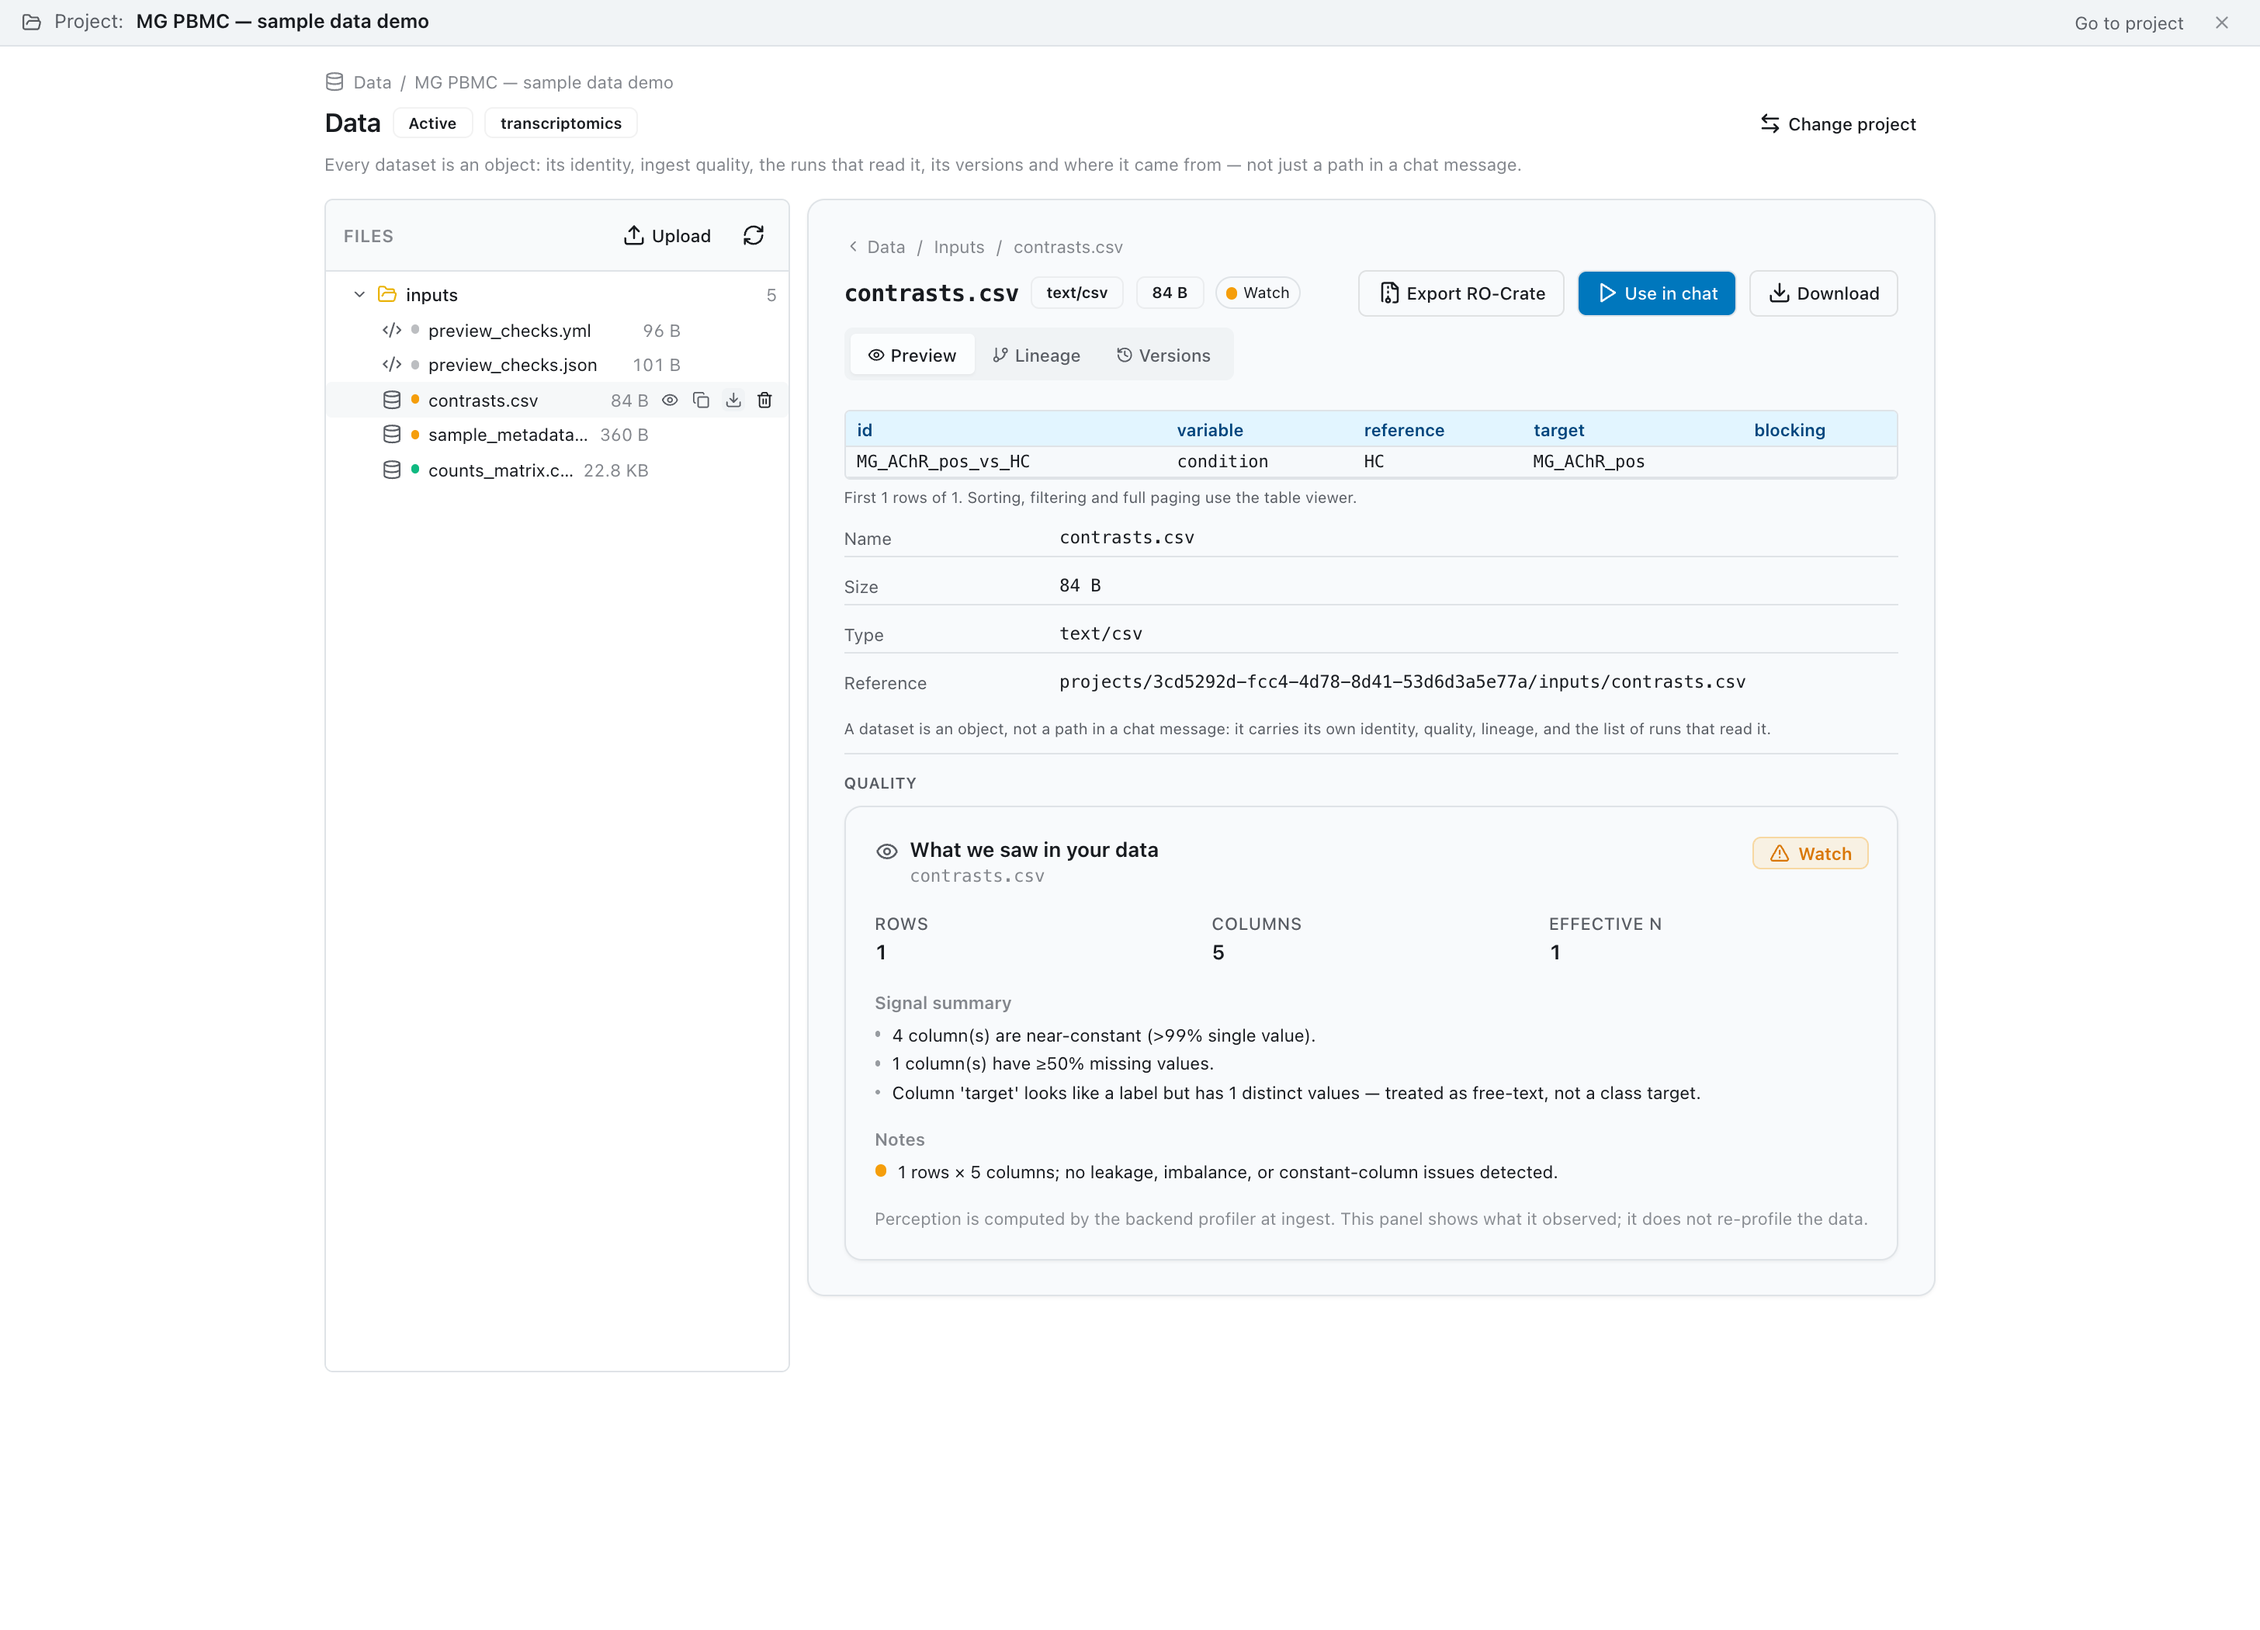
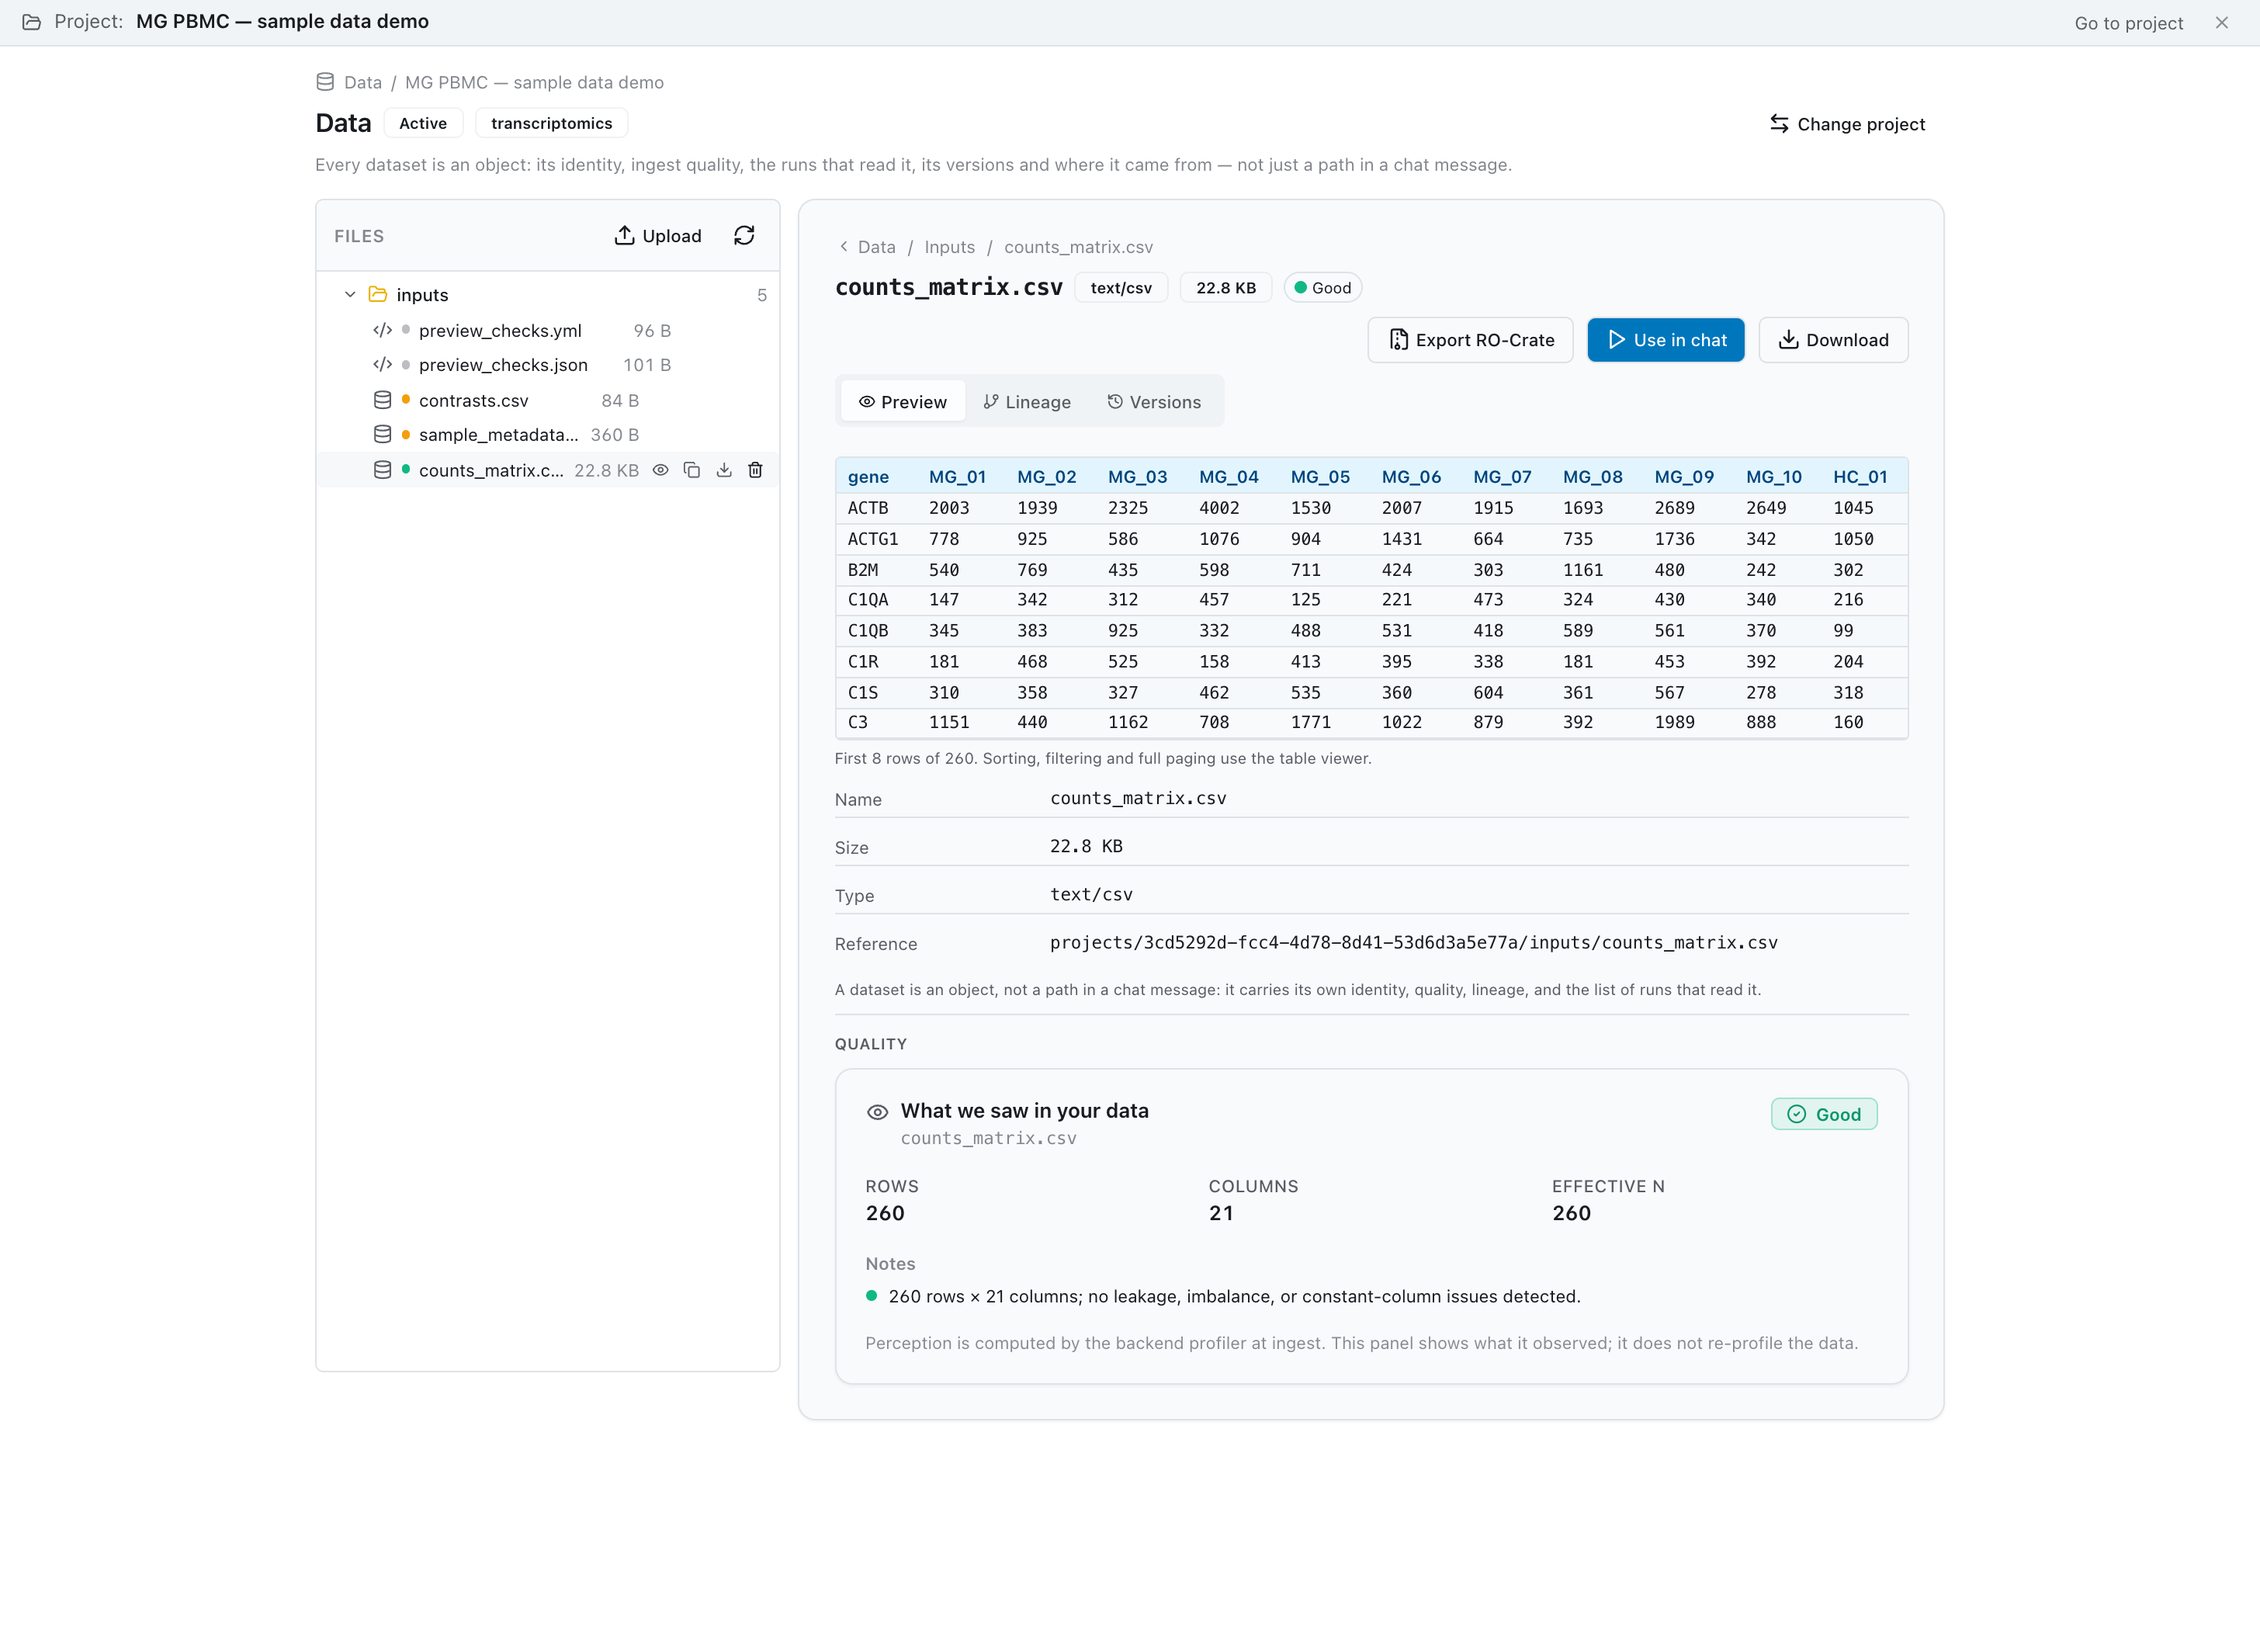
fix(manual-screenshots): capture i05-2 from rich counts_matrix (defeat 1-row self-contradiction)
Committee re-score rated the old i05-2 MAJOR: it was captured from
contrasts.csv (1 data row), so every column is trivially constant and
the quality panel self-contradicted ('4 near-constant columns' vs Notes
'no constant-column issues') with broken plurals ('First 1 rows').
Root cause: getByText(/counts_matrix|sample_metadata|contrasts/i).first()
picks contrasts.csv (sorts before counts_matrix alphabetically).

Prefer the rich multi-row counts_matrix.csv -> quality panel now reads
'260 rows x 21 columns; no issues detected' (Good), self-consistent.
Confirms the contradiction was a 1-row-input artifact, not a panel bug.

diff --git a/frontend/e2e/manual-screenshots.e2e.ts b/frontend/e2e/manual-screenshots.e2e.ts
@@ -102,11 +102,19 @@ test("capture data-hub drill-in (I.5)", async ({ page }) => {
     await page.waitForTimeout(4000);
     await shot("i05-1-file-tree.png"); // file tree for the chosen project
     // Open a file by its NAME (clicking the row's dot doesn't select) → dataset object.
-    // Prefer a REAL demo dataset (the counts matrix / a CSV) so the figure shows a
-    // working table preview — not the internal preview_checks.json, whose preview
-    // 400s and would put a red "Cannot read file" error in the manual (committee
-    // bucket B: wrong content captured). Falls back to any previewable file.
-    const demoData = page.getByText(/counts_matrix|sample_metadata|contrasts/i).first();
+    // Prefer the RICH multi-row counts_matrix.csv (genes×samples) so the quality
+    // panel has real distributions to profile. Do NOT pick contrasts.csv: it has a
+    // single data row, so every column is trivially constant and the panel
+    // self-contradicts ("4 near-constant columns" vs Notes "no constant-column
+    // issues") with broken plurals ("First 1 rows") — committee re-score rated that
+    // capture MAJOR (docs/20261013_SCREENSHOT_COMMITTEE_REVIEW.md). Order of
+    // preference: counts_matrix → sample_metadata → any previewable CSV/data file;
+    // never the internal preview_checks.json (its preview 400s → red error banner).
+    const rich = page.getByText(/counts_matrix/i).first();
+    const meta = page.getByText(/sample_metadata/i).first();
+    const demoData = (await rich.count()) > 0 ? rich
+      : (await meta.count()) > 0 ? meta
+      : page.getByText(/\.(csv|tsv|txt)$/i).first();
     const fileName = (await demoData.count()) > 0 ? demoData
       : page.getByText(/\.(fastq|fq|csv|tsv|txt|vcf|bam|h5ad|pdb|json)$/i).first();
     if ((await fileName.count()) > 0) {
